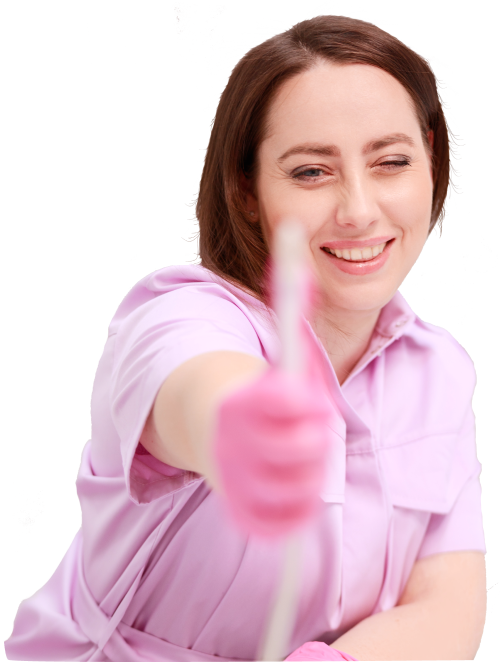
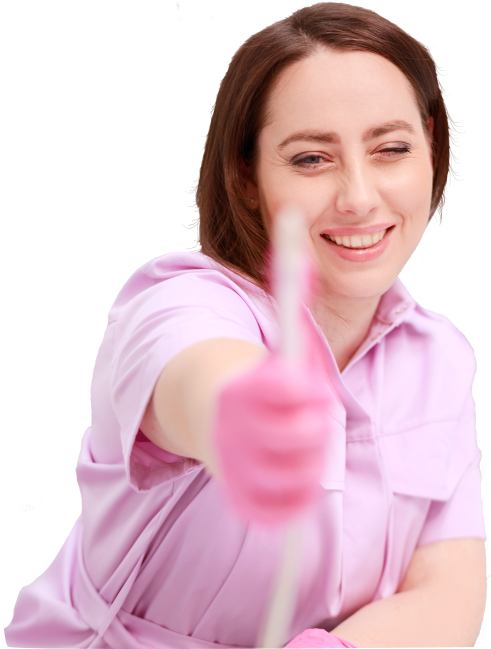
-home page all screen resolution almost fixed;

diff --git a/css/style.scss b/css/style.scss
@@ -533,14 +533,13 @@ a {
     height: calc(100vh - 60px);
     margin-top: 60px;
     text-align: center;
-    position: relative;
 
     &__background {
         position: absolute;
         top: -60px;
         z-index: -1;
         width: 100%;
-        height: 100vh;
+        height: calc(100vh + 60px);
         background: radial-gradient(at 15% 21%, rgba(208, 202, 255, 0.6) 11%, rgba(255, 255, 255, 0) 35%),
             radial-gradient(at 90% 5%, rgba(255, 201, 249, 0.8) 11%, rgba(255, 255, 255, 0) 25%),
             radial-gradient(at 20% 70%, rgba(255, 199, 209, 0.8) 11%, rgba(255, 255, 255, 0) 35%),
@@ -558,7 +557,6 @@ a {
     .container {
         height: calc(100vh - 60px);
         @include flexy(column, space-between);
-
     }
 
     &__title {
@@ -588,21 +586,22 @@ a {
     }
 
     &__img {
-        height: 75%;
+        max-height: 75vh;
+        position: relative;
+        @include flexy(column);
+        margin-bottom: 1px;
 
-        .girl {
-            height: 100%;
-            margin-left: -15%;
 
-            picture {
-                width: 100%;
-                height: 100%;
-                object-fit: contain;
-            }
+        img {
+            //width: 100%;
+            //height: 100%;
+            //object-fit: cover;
         }
     }
 
+
     &__link {
+        margin: 0 auto;
         position: absolute;
         bottom: 0;
 

diff --git a/index.html b/index.html
@@ -114,15 +114,15 @@
           </div>
         </div>
         <div class="home__img">
-          <div class="girl">
-            <picture class="home__picture picture">
-              <source type="image/webp" srcset="img/atelier/girl.webp" media="(max-width: 2400px)">
-              <source type="image/png" srcset="img/atelier/girl.png" media="(max-width: 2400px)">
-              <img src="img/atelier/girl.png" alt="Студия электроэпиляции">
-            </picture>
-          </div>
+
+          <picture class="home__picture picture">
+            <source type="image/webp" srcset="img/atelier/girl.webp" media="(max-width: 2400px)">
+            <source type="image/png" srcset="img/atelier/girl.png" media="(max-width: 2400px)">
+            <img src="img/atelier/girl.png" alt="Студия электроэпиляции">
+          </picture>
+          <a class="home__link link" href="https://wa.me/79035329338" target="_blank">Записаться на сеанс</a>
+
         </div>
-        <a class="home__link link" href="https://wa.me/79035329338" target="_blank">Записаться на сеанс</a>
       </div>
     </section>
 

diff --git a/css/style.css b/css/style.css
@@ -456,14 +456,13 @@ a {
   height: calc(100vh - 60px);
   margin-top: 60px;
   text-align: center;
-  position: relative;
 }
 .home__background {
   position: absolute;
   top: -60px;
   z-index: -1;
   width: 100%;
-  height: 100vh;
+  height: calc(100vh + 60px);
   background: radial-gradient(at 15% 21%, rgba(208, 202, 255, 0.6) 11%, rgba(255, 255, 255, 0) 35%), radial-gradient(at 90% 5%, rgba(255, 201, 249, 0.8) 11%, rgba(255, 255, 255, 0) 25%), radial-gradient(at 20% 70%, rgba(255, 199, 209, 0.8) 11%, rgba(255, 255, 255, 0) 35%), radial-gradient(at 77% 60%, rgba(202, 237, 255, 0.8) 11%, rgba(255, 255, 255, 0) 30%);
 }
 .home__background .roses {
@@ -499,19 +498,16 @@ a {
   margin-bottom: 26px;
 }
 .home__img {
-  height: 75%;
-}
-.home__img .girl {
-  height: 100%;
-  margin-left: -15%;
-}
-.home__img .girl picture {
-  width: 100%;
-  height: 100%;
-  -o-object-fit: contain;
-     object-fit: contain;
+  max-height: 75vh;
+  position: relative;
+  display: flex;
+  flex-direction: column;
+  justify-content: center;
+  align-items: center;
+  margin-bottom: 1px;
 }
 .home__link {
+  margin: 0 auto;
   position: absolute;
   bottom: 0;
 }
